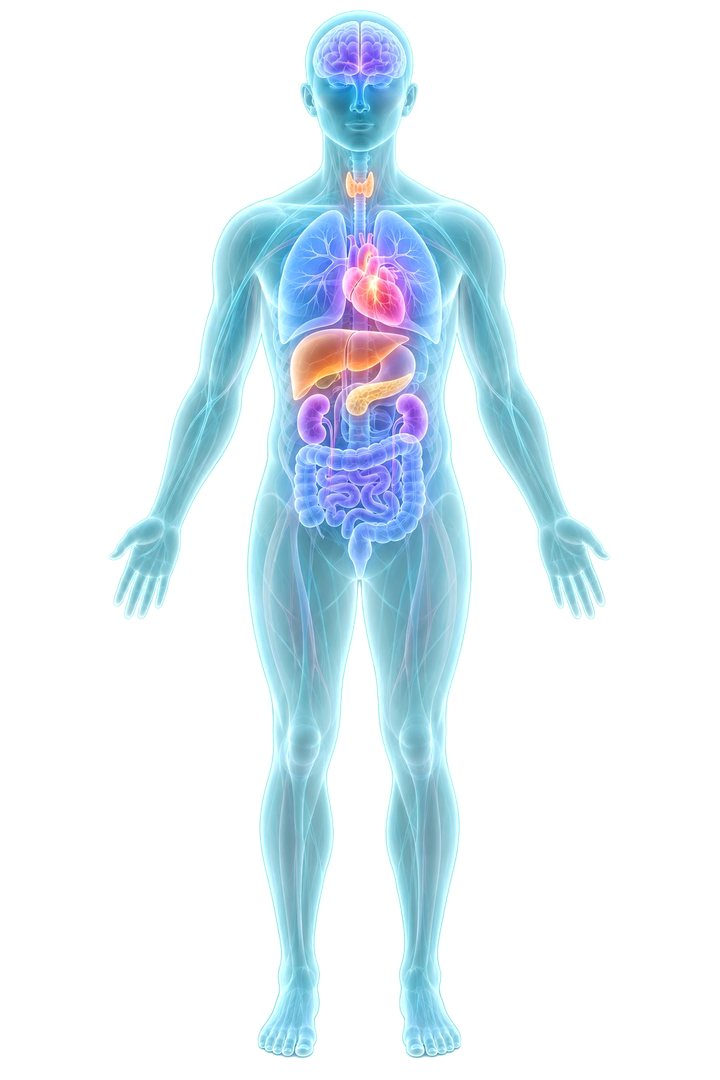
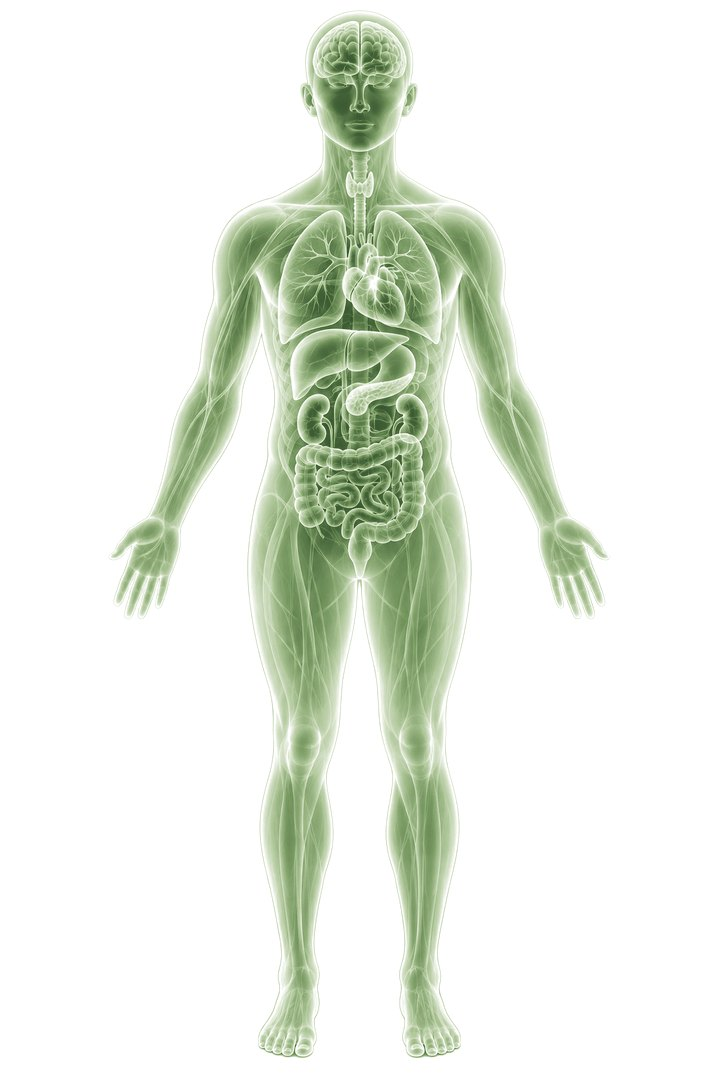
Draw the Digital Twin page's figure in the report's greens
The Twin's body picture was its own teal glass. It is now recoloured by
lightness into the report palette, from white through sage tint and sage
to forest, so it reads as part of the report; the organs keep their
outlines. Hotspot rings get solid white centres so the sage ones stand
out against the green figure.

Changed region(s): [[0.1528, 0.0, 0.8556, 0.9778]]

diff --git a/lib/fmAnalysisPdf.ts b/lib/fmAnalysisPdf.ts
@@ -946,7 +946,7 @@ function twinBody(analysis: Analysis) {
     const elbow = organ.side === 'left' ? edge + 1.6 : edge - 1.6
     const tone = organ.status === 'nodata' ? FAINT : TONE[organ.status].solid
     return `<polyline points="${u(edge)},${u(y)} ${u(elbow)},${u(y)} ${u(organ.hx)},${u(organ.hy)}" fill="none" stroke="${tone}" stroke-width="1.6" stroke-opacity=".75" stroke-linejoin="round"/>
-      <circle cx="${u(organ.hx)}" cy="${u(organ.hy)}" r="9" fill="#fff" fill-opacity=".6" stroke="${tone}" stroke-width="2.6"/>
+      <circle cx="${u(organ.hx)}" cy="${u(organ.hy)}" r="9.5" fill="#fff" stroke="${tone}" stroke-width="3"/>
       <circle cx="${u(organ.hx)}" cy="${u(organ.hy)}" r="3.6" fill="${tone}"/>
       <circle cx="${u(edge)}" cy="${u(y)}" r="3" fill="${tone}"/>`
   }).join('')
